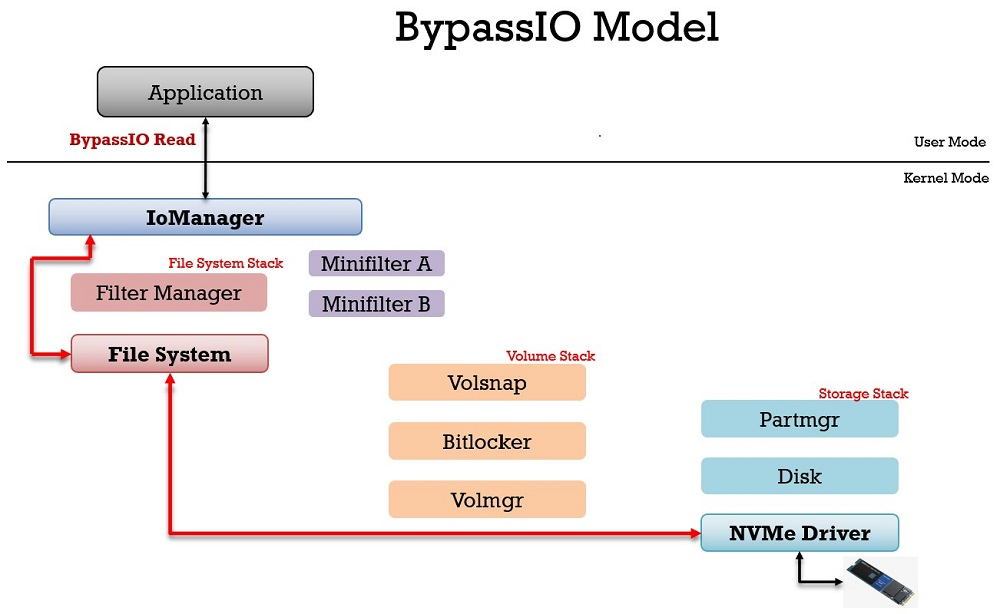
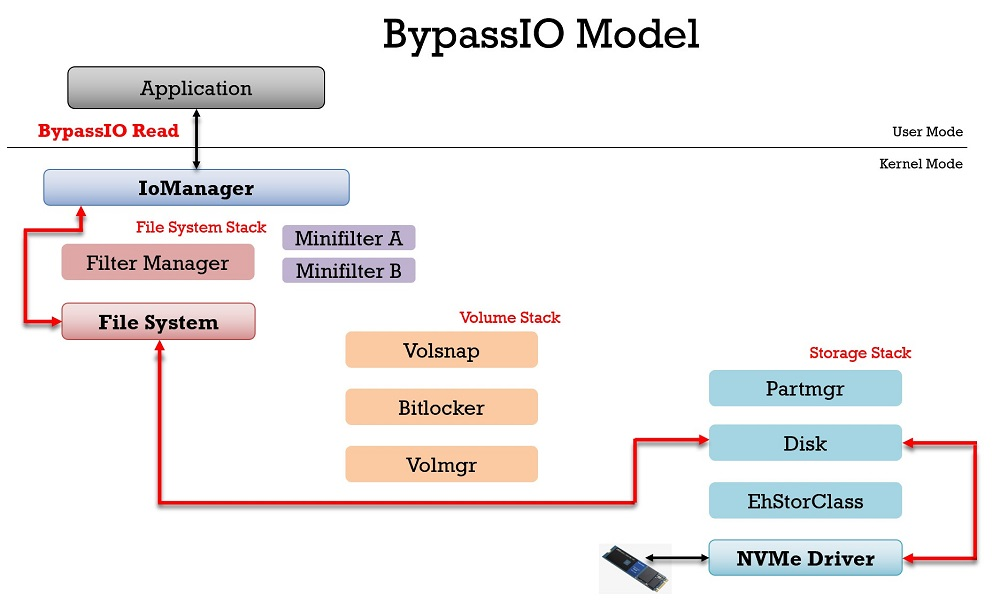
Incorporate review comments/fixes

Changed region(s): [[0.0, 0.0896, 0.992, 0.9851], [0.372, 0.0, 0.713, 0.0896]]

diff --git a/windows-driver-docs-pr/ifs/bypassio.md b/windows-driver-docs-pr/ifs/bypassio.md
@@ -3,7 +3,7 @@ title: BypassIO
 description: About BypassIO
 keywords:
 - filter drivers WDK file system , BypassIO
-ms.date: 07/08/2021
+ms.date: 07/30/2021
 prerelease: false
 ms.localizationpriority: medium
 ---
@@ -40,14 +40,15 @@ Starting in Windows 11, BypassIO is supported as follows:
 
 ## How BypassIO works
 
-When [**NtReadFile**](/windows-hardware/drivers/ddi/ntifs/nf-ntifs-ntreadfile) is called on a BypassIO-enabled **FileHandle**, instead of flowing through the traditional I/O stack, the operations flow directly from the I/O manager to the (NTFS) file system and then to the (NVMe) storage driver (no IRP is issued):
+When [**NtReadFile**](/windows-hardware/drivers/ddi/ntifs/nf-ntifs-ntreadfile) is called on a BypassIO-enabled **FileHandle**, the operation does not flow through the traditional I/O stack. Instead, no IRP is issued, and the operation flows directly from the I/O manager to the (NTFS) file system, then to the disk (classpnp) driver, and then to the StorNVMe driver.
 
-* All file system filters are skipped
-* All volume and storage stack filters and drivers are skipped
+* All file system filters are skipped.
+* All volume stack filters are skipped.
+* All storage stack filters and drivers above the disk driver, and between the disk and StorNVMe drivers, are skipped.
 
 :::image type="content" source="images/traditional-io-path.jpg" alt-text="Shows the traditional I O path, where a read request traverses the entire file system stack, volume stack, and storage stack.":::
 
-:::image type="content" source="images/bypass-io-path.jpg" alt-text="Shows the Bypass I O path. When Bypass I O is enabled, the I O manager sends a read request directly to the file system, which sends the request directly to the NVMe driver, skipping all filters in the file system stack, the entire volume stack, and any drivers in the storage stack above the NVMe driver.":::
+:::image type="content" source="images/bypass-io-path.jpg" alt-text="Shows the Bypass I O path. When Bypass I O is enabled, the I O manager sends a read request directly to the file system, which sends the request directly to the disk driver, skipping all filters in the file system stack, the entire volume stack, and any drivers in the storage stack above the disk driver, and between the disk and StorNVMe drivers.":::
 
 ## DDIs changes and additions for BypassIO
 
@@ -83,7 +84,7 @@ Starting in Windows 11, filter developers should add **SUPPORTED_FS_FEATURES_BYP
 > [!NOTE]
 > A filter that can never support BypassIO should still add **SUPPORTED_FS_FEATURES_BYPASS_IO** to its **SupportedFeatures** state, and then veto appropriately inside the filter, specifying the reason.
 
-Minifilters that do not filter IRP_MJ_READ or IRP_MJ_WRITE are automatically opted in to BypassIO support.
+Minifilters that do not filter IRP_MJ_READ or IRP_MJ_WRITE are automatically opted in to BypassIO support, as if they had added **SUPPORTED_FS_FEATURES_BYPASS_IO** in **SupportedFeatures**.
 
 The **FS_BPIO_OP_ENABLE** and **FS_BPIO_OP_QUERY** operations will fail on that stack if there is an attached minifilter that has not opted in.
 

diff --git a/windows-driver-docs-pr/storage/bypassio.md b/windows-driver-docs-pr/storage/bypassio.md
@@ -3,7 +3,7 @@ title: BypassIO for storage drivers
 description: About BypassIO for storage drivers
 keywords:
 - storage drivers WDK , BypassIO
-ms.date: 07/08/2021
+ms.date: 07/30/2021
 prerelease: false
 ms.localizationpriority: medium
 ---
@@ -53,7 +53,7 @@ The following DDIs relevant to storage drivers were added to provide BypassIO su
 Starting in Windows 11, storage driver developers need to update their driver's .INF or MANIFEST files to add the **StorageSupportedFeatures** infrastructure with **STORAGE_SUPPORTED_FEATURES_BYPASS_IO** for BypassIO as follows:
 
 * Define a "Parameters" key under your Service definition
-* Add a DWORD value named "**StorageSupportedFeatures**"
+* Add a DWORD value named "**StorageSupportedFeatures**", and set this value to 0x1 to indicate BypassIO support.
 
 The driver then processes [**IOCTL_STORAGE_MANAGE_BYPASS_IO**](/windows-hardware/drivers/ddi/ntddstor/ni-ntddstor-ioctl_storage_manage_bypass_io) as needed. The **FS_BPIO_OP_QUERY** operation will fail if there is a volume storage stack driver that has not opted in.
 
